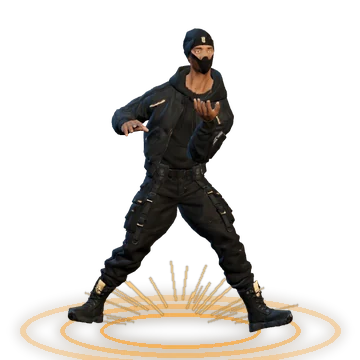
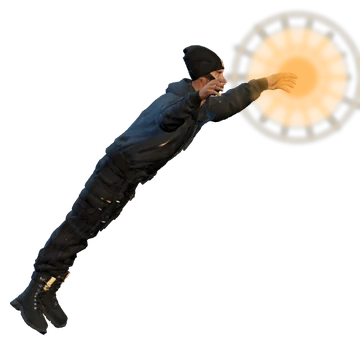
Feelz Run: new inward runs, card fixes, speed check on menus

diff --git a/public/run/engine/inward3d.js b/public/run/engine/inward3d.js
@@ -71,6 +71,37 @@ const Inward3D = (() => {
   const fromSheet = (img, r) => (g, w, h) => { if (img && img.ready !== false && r) g.drawImage(img, r[0], r[1], r[2], r[3], 0, 0, w, h); };
   const tileTex = name => canvasTex("tile:" + name, 256, 256, fromSheet(art.tiles, TILES[name]), true);
   const kitTex = (name, w, h) => canvasTex("kit:" + name, w || 256, h || 256, fromSheet(art.kit, KIT[name]), false);
+  // The painted props (crates, barrels, carts) and townsfolk, cut from the side-on art.
+  const PROP_WORLD = { lc: "mc", mc: "mc", uc: "uc", rc: "rc", de: "de", ve: "ve" };
+  function propCard(world, kind, metresH) {
+    const name = (PROP_WORLD[world] || "mc") + "_" + kind, r = PROP2D[name] || PROP2D["mc_" + kind];
+    if (!r || !art.props2d || !art.props2d.ready) return null;
+    const tex = canvasTex("p2d:" + name, 256, Math.round(256 * r[3] / r[2]), fromSheet(art.props2d, r), false);
+    const h = metresH, w = h * r[2] / r[3];
+    const card = new THREE.Mesh(new THREE.PlaneGeometry(w, h), new THREE.MeshLambertMaterial({ map: tex, transparent: true, alphaTest: 0.35, side: THREE.DoubleSide }));
+    card.position.y = h / 2;
+    return card;
+  }
+  const NPC_LIST = () => Object.values(SPRITES.npcs.who).filter(w => w.metres > 1.4);
+  function personCard(i) {
+    if (!art.npcs || !art.npcs.ready) return null;
+    const N = SPRITES.npcs, list = NPC_LIST(), who = list[Math.abs(i) % list.length];
+    const f = Math.abs(i * 3) % N.frames;
+    const tex = canvasTex("npc:" + who.row + ":" + f, 160, 160, fromSheet(art.npcs, [f * N.cell, who.row * N.cell, N.cell, N.cell]), false);
+    const size = who.metres * 0.95;
+    const card = new THREE.Mesh(new THREE.PlaneGeometry(size, size), new THREE.MeshLambertMaterial({ map: tex, transparent: true, alphaTest: 0.4, side: THREE.DoubleSide }));
+    card.position.y = size / 2 - size * (1 - who.footY);
+    if (seeded(i * 1.7) < 0.5) card.scale.x = -1;
+    return card;
+  }
+  // A painted building front from the side-on kit (art.meshyKit), for the street-facing wall.
+  function buildingTex(name) {
+    const r = MESHY_KIT[name];
+    if (!r || !art.meshyKit || !art.meshyKit.ready) return null;
+    const w = 384, h = Math.round(384 * r[3] / r[2]);
+    return { tex: canvasTex("bld:" + name, w, h, fromSheet(art.meshyKit, [r[0], r[1], r[2], r[3]]), false), aspect: r[3] / r[2] };
+  }
+
   function repeated(tex, rx, ry) { const t = tex.clone(); t.needsUpdate = true; t.wrapS = t.wrapT = THREE.RepeatWrapping; t.repeat.set(rx, ry); return t; }
 
   function floorTex() {
@@ -141,7 +172,7 @@ const Inward3D = (() => {
     const haze = sceneHaze();
     const fogCol = rgb(haze).multiplyScalar(1.15);
     scene.background = fogCol.clone();
-    scene.fog = new THREE.Fog(fogCol, 16, Math.min(85, L + 40));
+    scene.fog = new THREE.Fog(fogCol, 30, Math.min(160, L + 70));
 
     // light: a warm key from behind the camera, the sky above, the dark street below
     scene.add(new THREE.HemisphereLight(0xffe7c4, 0x2a2633, 2.3));
@@ -151,7 +182,7 @@ const Inward3D = (() => {
     // the painting at the far end: you run into it
     const bt = backdropTex(sec);
     if (bt) {
-      const img = bt.image, ph = 70, pw = ph * img.width / img.height;
+      const img = bt.image, ph = 110, pw = ph * img.width / img.height;
       const paint = new THREE.Mesh(new THREE.PlaneGeometry(pw, ph), new THREE.MeshBasicMaterial({ map: bt, fog: false }));
       paint.position.set(0, ph * 0.36, -(L + 70));
       bt.userData.shared = true;
@@ -177,27 +208,48 @@ const Inward3D = (() => {
 
     if (!voidRun) {
       // pavements, then a canyon of buildings either side, from the same wall panels as the side-on streets
+      // wide pavements with people on them, then painted buildings either side,
+      // each one different, from the same painted kit as the side-on streets
+      const kitList = MESHY_BUILDINGS[worldId] || MESHY_BUILDINGS.mc;
+      const PAVE = 6;
       for (const side of [-1, 1]) {
-        const pave = new THREE.Mesh(new THREE.PlaneGeometry(3, far + 30), lam({ map: repeated(floorTex(), 1.4, (far + 30) / 2.2), color: 0x8f8a86 }));
-        pave.rotation.x = -Math.PI / 2; pave.position.set(side * (runW / 2 + 1.5), 0.04, -(far + 30) / 2 + 12); scene.add(pave);
+        const pave = new THREE.Mesh(new THREE.PlaneGeometry(PAVE, far + 30), lam({ map: repeated(floorTex(), PAVE / 2.2, (far + 30) / 2.2), color: 0x8f8a86 }));
+        pave.rotation.x = -Math.PI / 2; pave.position.set(side * (runW / 2 + PAVE / 2), 0.04, -(far + 30) / 2 + 12); scene.add(pave);
         const kerb = new THREE.Mesh(new THREE.BoxGeometry(0.18, 0.16, far + 30), lam({ color: 0x3a3632 }));
         kerb.position.set(side * (runW / 2 + 0.09), 0.08, -(far + 30) / 2 + 12); scene.add(kerb);
         let z = 14, i = 0;
         while (z > -(L + 60)) {
-          const wdt = 5 + seeded(i * 3.1 + side) * 5, dep = 6 + seeded(i * 5.7 + side) * 6, hgt = 7 + seeded(i * 7.3 + side * 2) * 16;
-          const lit = seeded(i * 2.3 + side * 9) < 0.45;
-          const wall = tileTex("wall_" + ww.wall + "_win" + (lit ? "_lit" : ""));
-          const shade = 0.75 + ww.shade * 0.5;
-          const mat = lam({ map: repeated(wall, wdt / 2, hgt / 2), color: new THREE.Color(shade, shade * 0.97, shade * 0.95) });
-          if (lit) { mat.emissive = new THREE.Color(0xffb35a); mat.emissiveMap = mat.map; mat.emissiveIntensity = 0.06; }
-          const b = new THREE.Mesh(new THREE.BoxGeometry(dep, hgt, wdt), mat);
-          b.position.set(side * (runW / 2 + 3 + dep / 2), hgt / 2, z - wdt / 2);
-          scene.add(b);
-          const cap = new THREE.Mesh(new THREE.BoxGeometry(dep + 0.3, 0.35, wdt + 0.3), lam({ color: 0x2a2b30 }));
-          cap.position.set(b.position.x, hgt + 0.17, b.position.z); scene.add(cap);
+          const bt = buildingTex(kitList[Math.floor(seeded(i * 3.9 + side * 5) * kitList.length) % kitList.length]);
+          const wdt = 6 + seeded(i * 3.1 + side) * 6, dep = 8;
+          const hgt = bt ? Math.max(7, Math.min(30, wdt * bt.aspect)) : 7 + seeded(i * 7.3 + side * 2) * 16;
+          const dark = lam({ color: 0x24252b });
+          let mats;
+          if (bt) {
+            const face = lam({ map: bt.tex });
+            mats = side < 0 ? [face, dark, dark, dark, dark, dark] : [dark, face, dark, dark, dark, dark];
+          } else {
+            const wall = tileTex("wall_" + ww.wall + "_win");
+            mats = lam({ map: repeated(wall, wdt / 2, hgt / 2) });
+          }
+          const bld = new THREE.Mesh(new THREE.BoxGeometry(dep, hgt, wdt), mats);
+          bld.position.set(side * (runW / 2 + PAVE + dep / 2), hgt / 2, z - wdt / 2);
+          scene.add(bld);
+          // people on the pavement in front of it, and now and then a crate or barrel by the door
+          const folk = 1 + Math.floor(seeded(i * 6.1 + side) * 3);
+          for (let k = 0; k < folk; k++) {
+            const pc = personCard(i * 7 + k * 3 + (side > 0 ? 50 : 0));
+            if (!pc) break;
+            const g = new THREE.Group();
+            g.position.set(side * (runW / 2 + 0.9 + seeded(i * 2.2 + k + side) * (PAVE - 1.8)), 0, z - seeded(i * 4.4 + k * 1.3 + side) * wdt);
+            g.add(pc); scene.add(g);
+          }
+          if (seeded(i * 8.3 + side) < 0.45) {
+            const pr = propCard(worldId, seeded(i * 9.1 + side) < 0.5 ? "barrel" : "crate", 0.95);
+            if (pr) { const g = new THREE.Group(); g.position.set(side * (runW / 2 + PAVE - 0.9), 0, z - wdt * 0.5); g.add(pr); scene.add(g); }
+          }
           if (seeded(i * 4.9 + side) < 0.35) {   // a lamp post on the pavement, with a warm pool of light
             const post = new THREE.Mesh(new THREE.CylinderGeometry(0.05, 0.07, 4.2, 6), lam({ color: 0x1c1c22 }));
-            post.position.set(side * (runW / 2 + 0.9), 2.1, z - wdt / 2); scene.add(post);
+            post.position.set(side * (runW / 2 + 0.6), 2.1, z - wdt / 2); scene.add(post);
             const bulb = new THREE.Sprite(new THREE.SpriteMaterial({ map: glowTex(), color: 0xffc070, transparent: true, depthWrite: false, blending: THREE.AdditiveBlending }));
             bulb.scale.set(1.6, 1.6, 1); bulb.position.set(post.position.x - side * 0.3, 4.2, post.position.z); scene.add(bulb);
           }
@@ -222,9 +274,9 @@ const Inward3D = (() => {
         const pick = Math.floor(seeded(Math.round(o.d * 10) + lane * 7) * 3);
         const g = new THREE.Group(), x = lane * LANE;
         g.position.set(x, 0, -o.d);
-        if (o.kind === "low") addLow(g, pick);
+        if (o.kind === "low") addLow(g, pick, worldId) || addLowKit(g, pick);
         else if (o.kind === "high") addHigh(g, o, lane);
-        else addBlock(g, ww, o, lane, pick);
+        else addBlock(g, ww, o, lane, pick, worldId);
         addShadow(g, o.kind === "block" ? 2.4 : 1.2);
         scene.add(g);
         dyn.obstacles.push(g);
@@ -260,7 +312,14 @@ const Inward3D = (() => {
   }
 
   const wood = () => lam({ color: 0x6b4a2c });
-  function addLow(g, pick) {
+  // Something to jump: the painted crates, barrels or a cart of this world.
+  function addLow(g, pick, world) {
+    const put = (kind, h, x, z) => { const c = propCard(world, kind, h); if (!c) return false; c.position.x = x; c.position.z = z; g.add(c); return true; };
+    if (pick === 0) return put("crate", 0.9, -0.32, -0.3) && put("crate_half", 0.55, 0.42, -0.1);
+    if (pick === 1) return put("barrel", 0.95, -0.42, -0.2) && put("barrel", 0.9, 0.38, -0.35);
+    return put("cart", 0.95, 0, -0.4);
+  }
+  function addLowKit(g, pick) {
     const crate = kitTex("crate", 128, 128), half = kitTex("crate_half", 96, 96);
     if (pick === 0) {   // a stack of crates
       const cm = lam({ map: crate });
@@ -281,21 +340,69 @@ const Inward3D = (() => {
     }
   }
 
+  // Something to duck under: a market awning strung across the lane, and now
+  // and then a Feelz Machine billboard on a beam.
+  function awningTex(hue) {
+    return canvasTex("awning:" + hue, 256, 64, (g, w, h) => {
+      const cols = [["#b3402f", "#e9dcc0"], ["#2f6b8a", "#e9dcc0"], ["#c58a2a", "#2a2320"], ["#5a7a3a", "#e9dcc0"]][hue % 4];
+      for (let i = 0; i < 8; i++) { g.fillStyle = cols[i % 2]; g.fillRect(i * w / 8, 0, w / 8, h); }
+      g.fillStyle = "rgba(0,0,0,0.25)"; g.fillRect(0, h * 0.8, w, h * 0.2);
+      for (let i = 0; i < 8; i++) { g.fillStyle = cols[i % 2]; g.beginPath(); g.moveTo(i * w / 8, h * 0.8); g.lineTo((i + 1) * w / 8, h * 0.8); g.lineTo((i + 0.5) * w / 8, h); g.fill(); }
+    }, false);
+  }
   function addHigh(g, o, lane) {
     const steel = lam({ color: 0x3a3f47 });
-    for (const s of [-1, 1]) { const post = new THREE.Mesh(new THREE.BoxGeometry(0.14, 2.6, 0.25), steel); post.position.set(s * 0.43 * LANE, 1.3, -0.12); g.add(post); }
-    // the beam carries a Feelz Machine billboard, flipping between the ads
     const idx = (Math.round(o.d * 3) + lane + 5) % BILLBOARD_ADS.length;
-    const panel = billboardPanel(idx, 340, 150);
-    const tex = new THREE.CanvasTexture(panel); tex.colorSpace = THREE.SRGBColorSpace;
-    const beam = new THREE.Mesh(new THREE.BoxGeometry(0.98 * LANE, 1.17, 0.4), [steel, steel, lam({ color: 0x262a31 }), steel, new THREE.MeshBasicMaterial({ map: tex }), steel]);
-    beam.position.set(0, 1.28 + 1.17 / 2, -0.15); g.add(beam);
-    const stripe = new THREE.Mesh(new THREE.PlaneGeometry(0.96 * LANE, 0.1), new THREE.MeshBasicMaterial({ map: hazardTex() }));
-    stripe.position.set(0, 1.25, 0.06); g.add(stripe);
-    dyn.boards.push({ tex, seed: idx, at: idx });
+    if (seeded(o.d * 2.3 + lane) < 0.18) {
+      for (const s of [-1, 1]) { const post = new THREE.Mesh(new THREE.BoxGeometry(0.14, 2.6, 0.25), steel); post.position.set(s * 0.43 * LANE, 1.3, -0.12); g.add(post); }
+      const panel = billboardPanel(idx, 340, 150);
+      const tex = new THREE.CanvasTexture(panel); tex.colorSpace = THREE.SRGBColorSpace;
+      const beam = new THREE.Mesh(new THREE.BoxGeometry(0.98 * LANE, 1.17, 0.4), [steel, steel, lam({ color: 0x262a31 }), steel, new THREE.MeshBasicMaterial({ map: tex }), steel]);
+      beam.position.set(0, 1.28 + 1.17 / 2, -0.15); g.add(beam);
+      const stripe = new THREE.Mesh(new THREE.PlaneGeometry(0.96 * LANE, 0.1), new THREE.MeshBasicMaterial({ map: hazardTex() }));
+      stripe.position.set(0, 1.25, 0.06); g.add(stripe);
+      dyn.boards.push({ tex, seed: idx, at: idx });
+      return;
+    }
+    // poles, a sloping striped canvas, its scalloped edge low enough to duck under
+    const pole = lam({ color: 0x3b2a1c }), cloth = lam({ map: awningTex(idx), side: THREE.DoubleSide });
+    for (const s of [-1, 1]) for (const zz of [0, -1.6]) { const p = new THREE.Mesh(new THREE.CylinderGeometry(0.05, 0.05, 2.3, 6), pole); p.position.set(s * 0.46 * LANE, 1.15, zz); g.add(p); }
+    const roof = new THREE.Mesh(new THREE.PlaneGeometry(0.98 * LANE, 1.8), cloth);
+    roof.rotation.x = -Math.PI / 2 + 0.28; roof.position.set(0, 2.0, -0.8); g.add(roof);
+    const edge = new THREE.Mesh(new THREE.PlaneGeometry(0.98 * LANE, 0.45), cloth);
+    edge.position.set(0, 1.55, 0.05); g.add(edge);
+    // goods hanging from the front rail
+    for (let k = 0; k < 4; k++) {
+      const c = new THREE.Mesh(new THREE.BoxGeometry(0.14, 0.32, 0.1), lam({ color: [0x9a6a3a, 0x6f8a4a, 0xb04a3a, 0xd8c070][k] }));
+      c.position.set((-0.32 + k * 0.21) * LANE, 1.22, 0.02); g.add(c);
+    }
   }
 
-  function addBlock(g, ww, o, lane, pick) {
+  // Something to go round: a knot of people, a cart piled high, or a market stall.
+  function addBlock(g, ww, o, lane, pick, world) {
+    if (pick === 0) {
+      let ok = true;
+      for (let k = 0; k < 3 && ok; k++) {
+        const pc = personCard(Math.round(o.d * 5) + lane * 11 + k * 4);
+        if (!pc) { ok = false; break; }
+        const h = new THREE.Group(); h.position.set((k - 1) * 0.36 * LANE, 0, -0.25 * (k % 2)); h.add(pc); g.add(h);
+      }
+      if (ok) return;
+    } else {
+      const put = (kind, hh, x, y, z) => { const c = propCard(world, kind, hh); if (!c) return false; c.position.x = x; c.position.y += y; c.position.z = z; g.add(c); return true; };
+      const base = put("cart", 1.15, 0, 0, -0.5);
+      if (base && pick === 1) { put("crate", 0.8, -0.3, 0.95, -0.6); put("crate_half", 0.55, 0.35, 0.95, -0.55); put("crate", 0.75, 0, 1.6, -0.65); return; }
+      if (base) {
+        const pole = lam({ color: 0x3b2a1c }), cloth = lam({ map: awningTex(Math.round(o.d) + lane), side: THREE.DoubleSide });
+        for (const s of [-1, 1]) { const p = new THREE.Mesh(new THREE.CylinderGeometry(0.05, 0.05, 2.6, 6), pole); p.position.set(s * 0.44 * LANE, 1.3, -0.1); g.add(p); }
+        const roof = new THREE.Mesh(new THREE.PlaneGeometry(0.95 * LANE, 1.4), cloth); roof.rotation.x = -Math.PI / 2 + 0.3; roof.position.set(0, 2.55, -0.6); g.add(roof);
+        put("barrel", 0.8, -0.38, 1.15, -0.7); put("crate_half", 0.5, 0.35, 1.15, -0.7);
+        return;
+      }
+    }
+    addBlockKit(g, ww, o, lane, pick);
+  }
+  function addBlockKit(g, ww, o, lane, pick) {
     const lit = seeded(Math.round(o.d * 3) + lane) < 0.5 ? "_lit" : "";
     const front = canvasTex("blockfront:" + ww.wall + lit + pick, 256, 340, (gg, w, h) => {
       const t = (name, x, y, ww2, hh) => { const r = TILES[name]; if (r && art.tiles.ready) gg.drawImage(art.tiles, r[0], r[1], r[2], r[3], x, y, ww2, hh); };
@@ -344,8 +451,18 @@ const Inward3D = (() => {
       card.position.y = size / 2 - size * (1 - B.footY);
       const shadow = new THREE.Mesh(new THREE.CircleGeometry(0.42, 20), new THREE.MeshBasicMaterial({ color: 0x000000, transparent: true, opacity: 0.4, depthWrite: false }));
       shadow.rotation.x = -Math.PI / 2; shadow.scale.set(1, 0.32, 1); shadow.position.y = 0.025;
-      const group = new THREE.Group(); group.add(card); scene.add(group); scene.add(shadow);
-      r = { group, card, shadow, tex, img };
+      // the 3D runner, seen from behind: drawn by engine/char3d.js each frame onto its own card
+      let card3 = null, c3 = null, tex3 = null;
+      if (typeof Char3D !== "undefined") {
+        c3 = document.createElement("canvas"); c3.width = c3.height = Char3D.SIZE;
+        tex3 = new THREE.CanvasTexture(c3); tex3.colorSpace = THREE.SRGBColorSpace; tex3.generateMipmaps = false; tex3.minFilter = THREE.LinearFilter;
+        const vm = Char3D.VIEW_METRES;
+        card3 = new THREE.Mesh(new THREE.PlaneGeometry(vm, vm), new THREE.MeshBasicMaterial({ map: tex3, transparent: true, alphaTest: 0.3, fog: false }));
+        card3.position.y = vm / 2 - vm * (1 - Char3D.FOOT);
+        card3.visible = false;
+      }
+      const group = new THREE.Group(); group.add(card); if (card3) group.add(card3); scene.add(group); scene.add(shadow);
+      r = { group, card, shadow, tex, img, card3, c3, tex3 };
       dyn.runners.set(p.id, r);
     }
     return r;
@@ -361,6 +478,23 @@ const Inward3D = (() => {
     const a = B.animations[anim];
     const cw = B.cell / r.img.width, ch = B.cell / r.img.height;
     r.tex.offset.set(frame * cw, 1 - (a.row + 1) * ch);
+    // the 3D runner when it can be drawn (player one; the co-op partner keeps the tinted sheet)
+    let used3 = false;
+    if (r.card3 && p.id === 1) {
+      const id = mission.player === "zora" ? "zora" : "koda";
+      const an = p.islide > 0 ? "slide" : p.iy > 0 ? (p.ivy > 0 ? "jump" : "fall") : "run";
+      if (Char3D.has(id, an)) {
+        const t = an === "run" ? p.animClock * 1.45 : an === "slide" ? (0.75 - p.islide) / 0.75 : an === "jump" ? Math.min(0.95, 0.25 + (1 - p.ivy / IN_JUMP) * 0.5) : p.animClock;
+        const outfit = id === "koda" && OUTFITS[playerOutfit] ? OUTFITS[playerOutfit].jacket : null;
+        const c = Char3D.render(id, "inward" + p.id, an, t, 1, { turn: 2, outfit });   // turned right round: back to the camera
+        if (c) {
+          const g = r.c3.getContext("2d"); g.clearRect(0, 0, r.c3.width, r.c3.height); g.drawImage(c, 0, 0);
+          r.tex3.needsUpdate = true; used3 = true;
+        }
+      }
+    }
+    r.card.visible = !used3;
+    if (r.card3) r.card3.visible = used3;
     const x = p.laneX * LANE, z = -p.iz;
     r.group.position.set(x, p.iy, z);
     r.shadow.position.set(x, 0.025, z);

diff --git a/public/run/engine/inward.js b/public/run/engine/inward.js
@@ -29,11 +29,25 @@ function checkInward() {
   }
 }
 
+// Inward runs are laid out longer than the stretch of street they replace,
+// and run a little quicker, so they last but the song still fits.
+const IN_STRETCH = 1.6, IN_PACE = 1.15;
+
 function startInward(sec) {
   inward.active = true; inward.sec = sec; inward.fade = 0.4;
-  inward.length = sec.to - sec.from;
-  inward.items = (sec.obstacles || []).map(o => ({ d: o[0], lane: o[1], kind: o[2] }));
-  inward.pick = (sec.records || []).map(r => ({ d: r[0], lane: r[1], taken: [] }));
+  inward.stretch = IN_STRETCH;
+  inward.length = (sec.to - sec.from) * IN_STRETCH;
+  inward.items = (sec.obstacles || []).map(o => ({ d: o[0] * IN_STRETCH, lane: o[1], kind: o[2] }));
+  // Long empty stretches get a box or barrel in one lane (there is always a way past).
+  const ds = inward.items.map(o => o.d).concat([0, inward.length]).sort((a, b) => a - b);
+  for (let i = 1; i < ds.length; i++) {
+    const gap = ds[i] - ds[i - 1];
+    if (gap < 11) continue;
+    const d = ds[i - 1] + gap / 2, lane = Math.floor(seeded(d * 3.7 + sec.from) * 3) - 1;
+    if (d > 6 && d < inward.length - 4) inward.items.push({ d, lane, kind: "low", extra: true });
+  }
+  inward.items.sort((a, b) => a.d - b.d);
+  inward.pick = (sec.records || []).map(r => ({ d: r[0] * IN_STRETCH, lane: r[1], taken: [] }));
   const lead = leader();
   for (const p of players) {
     p.iz = p === lead ? 0 : Math.max(-6, -(lead.x - p.x) / PX);
@@ -54,7 +68,7 @@ function endInward(cancel) {
   if (cancel) return;
   const lead = leader();
   for (const p of players) {
-    const behind = p === lead ? 0 : Math.max(0, inward.length - p.iz);
+    const behind = p === lead ? 0 : Math.max(0, inward.length - p.iz) / (inward.stretch || 1);
     const x = m(sec.to) - m(Math.min(4, behind));
     const f = floorUnder(x, -m(30)) || { y: -m(sec.y || 0) };
     p.x = x; p.y = f.y; p.vx = RUN_SPEED; p.vy = 0; p.ground = null; p.facing = 1;
@@ -113,7 +127,7 @@ function updateInward(dt) {
     if (p.iy <= 0) { p.ivy = Math.max(0, p.ivy); p.ijumps = 1; }
     // forward
     p.istun = Math.max(0, p.istun - dt);
-    const speed = RUN_SPEED / PX * (p.boostTime > 0 ? BOOST_SPEED : 1) * (p.istun > 0 ? 0.45 : 1);
+    const speed = RUN_SPEED / PX * IN_PACE * (p.boostTime > 0 ? BOOST_SPEED : 1) * (p.istun > 0 ? 0.45 : 1);
     const z0 = p.iz;
     p.iz += speed * dt;
     // things in the way
@@ -134,7 +148,7 @@ function updateInward(dt) {
       r.taken.push(p.id); p.records += 1; sfx.record();
     }
     // a little of the side-on position moves with you, for the camera and the storm
-    p.x = m(sec.from) + m(Math.min(inward.length, Math.max(0, p.iz)));
+    p.x = m(sec.from) + m(Math.min(sec.to - sec.from, Math.max(0, p.iz) / (inward.stretch || 1)));
   }
   if (lead.iz >= inward.length) endInward(false);
 }

diff --git a/public/run/engine/physics.js b/public/run/engine/physics.js
@@ -246,7 +246,11 @@ function tryMantle(p, dir) {
     const top = s.y;
     if (top < p.y - p.h - m(0.45) || top > p.y - p.h * 0.45) continue;
     if (!s.oneWay && !(dir > 0 ? p.x < s.x : p.x > s.x + s.w)) continue;
-    const landX = dir > 0 ? Math.max(s.x + p.w / 2 + 6, Math.min(s.x + s.w - p.w / 2, faceX + p.w / 2 + 14)) : Math.min(s.x + s.w - p.w / 2 - 6, faceX - p.w / 2 - 14);
+    // Reaching up through something thin from underneath (an awning): pull up onto it
+    // right where he is, not at its near end.
+    const inside = reach > s.x && reach < s.x + s.w && Math.abs(reach - faceX) > 12;
+    const landX = inside ? Math.max(s.x + p.w / 2 + 2, Math.min(s.x + s.w - p.w / 2 - 2, p.x + dir * 6))
+      : dir > 0 ? Math.max(s.x + p.w / 2 + 6, Math.min(s.x + s.w - p.w / 2, faceX + p.w / 2 + 14)) : Math.min(s.x + s.w - p.w / 2 - 6, faceX - p.w / 2 - 14);
     if (s.w < p.w * 0.6) continue;
     if (!roomAt(landX, top, STAND_H)) continue;
     startMove(p, "mantle", landX, top, 0.42, 0);

diff --git a/public/run/engine/core.js b/public/run/engine/core.js
@@ -142,10 +142,12 @@ function freeze(c) {
 // Is this device keeping up? Each effect asks once a frame. It answers yes
 // (too slow) only when the average frame has stayed over `limit` ms for `hold`
 // ms of play, never in the first few seconds of a run or after a pause, when
-// loading makes a few frames slow on any machine.
+// loading makes a few frames slow on any machine. Only frames of play count:
+// the menus draw at a calm pace on purpose.
 function slowWatch(limit, hold) {
   let avg = 16.7, last = 0, since = 0, bad = 0;
   return () => {
+    if (typeof gameState !== "undefined" && gameState !== "playing") { since = 0; bad = 0; last = 0; return false; }
     const now = performance.now(), dt = now - last;
     if (dt < 4) return false;                 // asked again in the same frame
     last = now;
